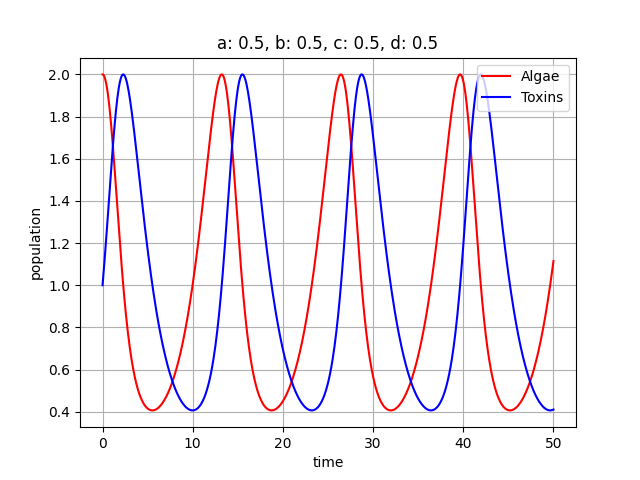
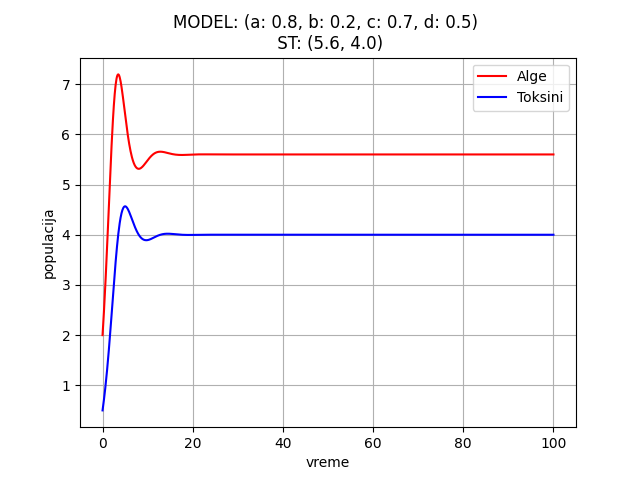
New parameters

diff --git a/populationOdeint.py b/populationOdeint.py
@@ -2,15 +2,15 @@ from numpy import *
 import pylab as p
 
 # parametri 
-a = 0.5 # prirodni prirastaj
-b = 0.5 # stopa umanjenja populacije vrste na osnovu uticaja toksina
-c = 0.5 # stopa izumiranja toksina
+a = 0.8 # prirodni prirastaj
+b = 0.2 # stopa umanjenja populacije vrste na osnovu uticaja toksina
+c = 0.7 # stopa izumiranja toksina
 d = 0.5 # stopa nastajanja toksina zavisi samo od kolicine populacije vrste
 
 #dX/dt = a*X - b*X*Y
 #dY/dt = -c*Y + d*X
 def dX_dt(X, t=0):
-    return array([ a*X[0] - b*X[0]*X[1] ,  
+    return array([ a*X[0] - b*X[0]*X[1] ,
                   -c*X[1] + d*X[0]      ])
 
 # stacionarne tacke
@@ -23,7 +23,7 @@ from scipy import integrate
 # vreme
 t = linspace(0, 100,  1000)
 # pocetne tacke
-X0 = array([2, 1])
+X0 = array([2, 0.5])
 
 X = integrate.odeint(dX_dt, X0, t)
 
@@ -36,12 +36,12 @@ p.grid()
 p.legend(loc='upper right')
 p.xlabel('vreme')
 p.ylabel('populacija')
-p.title(f'a: {a}, b: {b}, c: {c}, d: {d}')
-#f1.savefig('./plots/model1.png')
-p.show()
+p.title(f'MODEL: (a: {a}, b: {b}, c: {c}, d: {d}) \n ST: ({round((c*a) / (d*b), 2)}, {round(a/b, 2)})')
+#f1.savefig('./plots/model2.png')
+#p.show()
+
 
 #############################################################################################
-'''
 #vrednosti izmedju dve stacionarne tacke (0, c/d)
 values  = linspace(0, 3, 8)
 vcolors = p.cm.autumn_r(linspace(0., 1., len(values)))
@@ -70,7 +70,7 @@ DX1 /= M
 DY1 /= M                                  
 
 #iscrtavanje grafika
-p.title(f'Trajectories: a: {a}, b: {b}, c: {c}, d: {d}')
+p.title(f'MODEL: (a: {a}, b: {b}, c: {c}, d: {d}) \n ST: ({round((c*a) / (d*b), 2)}, {round(a/b, 2)})')
 Q = p.quiver(X1, Y1, DX1, DY1, M, pivot='mid', cmap=p.cm.jet)
 p.xlabel('Alge')
 p.ylabel('Toksini')
@@ -80,4 +80,3 @@ p.xlim(0, xmax)
 p.ylim(0, ymax)
 p.show()
 #f2.savefig('plots/populations.png')
-'''

diff --git a/populationDeltaT.py b/populationDeltaT.py
@@ -37,5 +37,5 @@ plt.grid()
 plt.legend(['Alge', 'Toksini'], loc='upper right')
 plt.xlabel('vreme')
 plt.ylabel('populacija')
-plt.title(f'a: {a}, b: {b}, c: {c}, d: {d}')
+p.title(f'MODEL: (a: {a}, b: {b}, c: {c}, d: {d}) \n ST: ({round((c*a) / (d*b), 2)}, {round(a/b, 2)})')
 plt.show()
